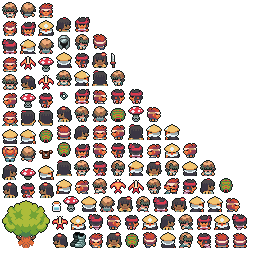
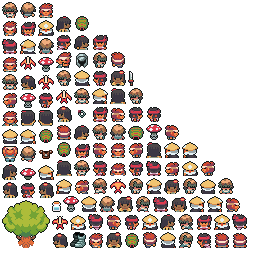
add DEAD AnimationType

Changed region(s): [[0.2188, 0.0625, 0.9062, 0.7812]]

diff --git a/core/src/main/kotlin/io/github/masamune/tiledmap/AnimationType.kt b/core/src/main/kotlin/io/github/masamune/tiledmap/AnimationType.kt
@@ -2,6 +2,7 @@ package io.github.masamune.tiledmap
 
 // This is an autogenerated class by gradle's 'genTiledEnumsAndExtensions' task. Do not touch it!
 enum class AnimationType {
+    DEAD,
     IDLE,
     ITEM,
     SPECIAL1,
